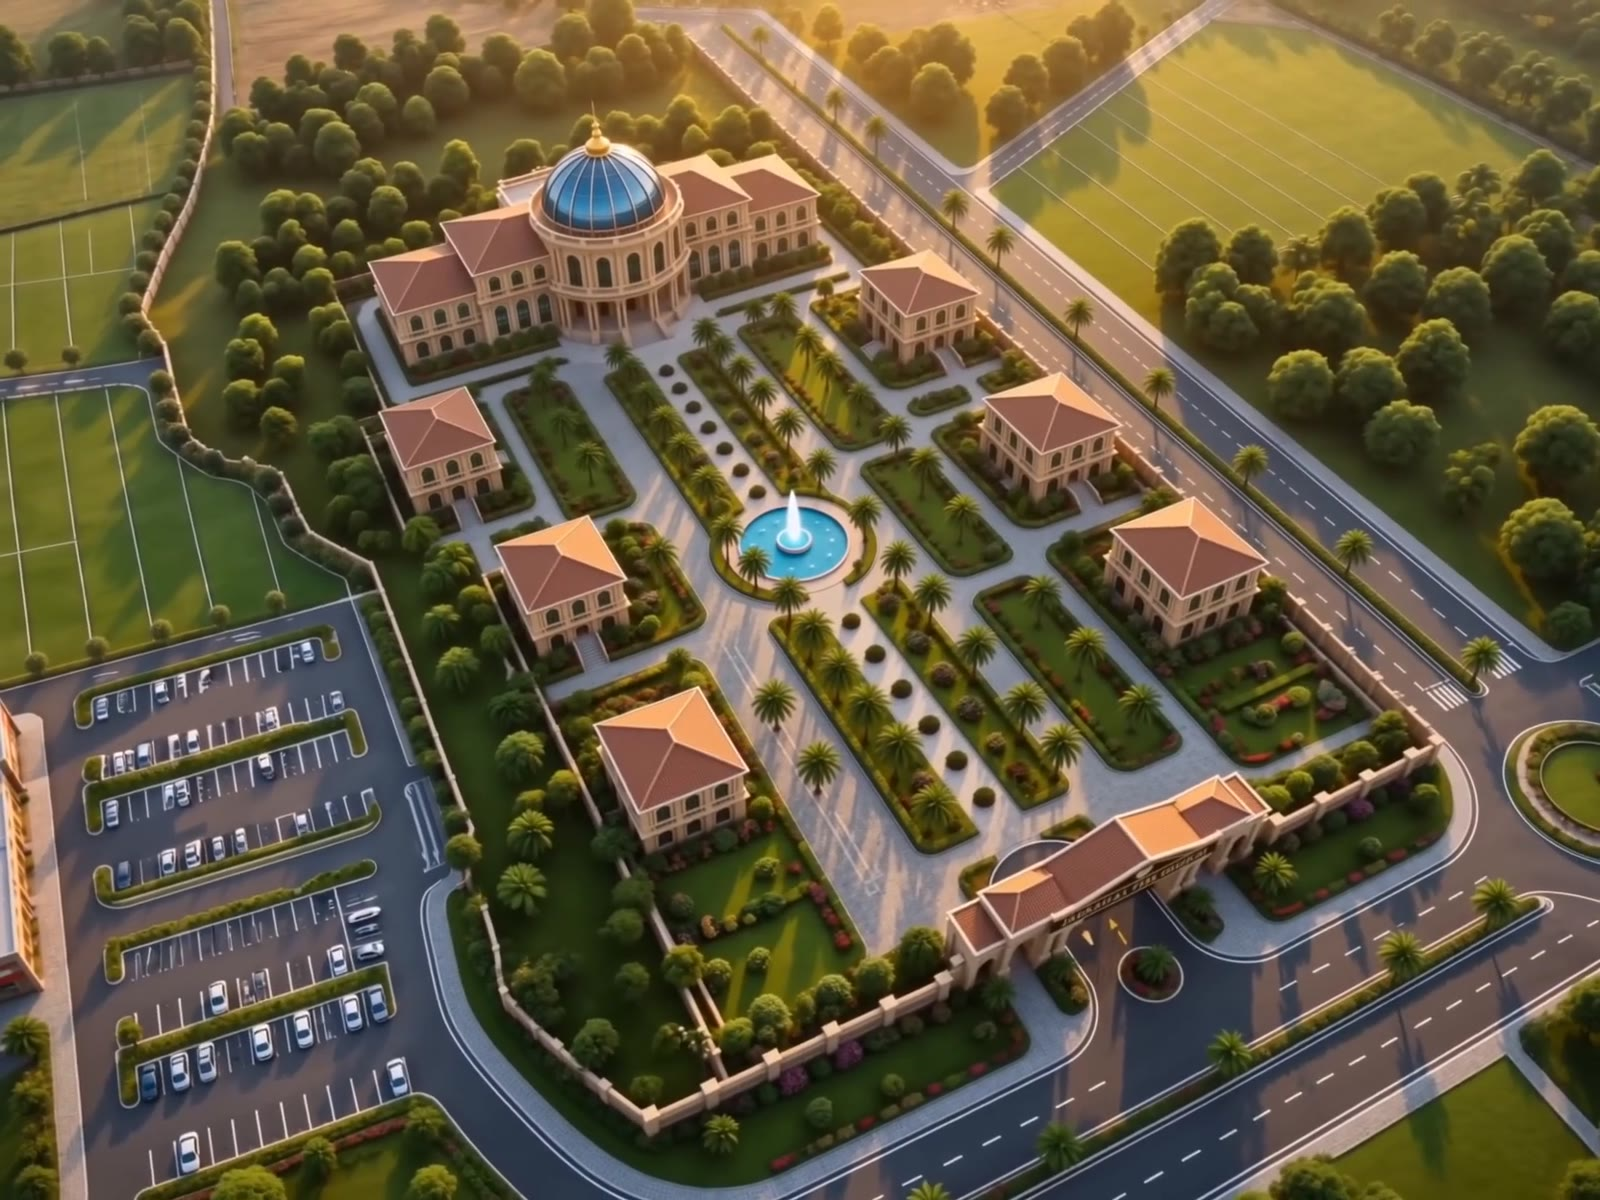
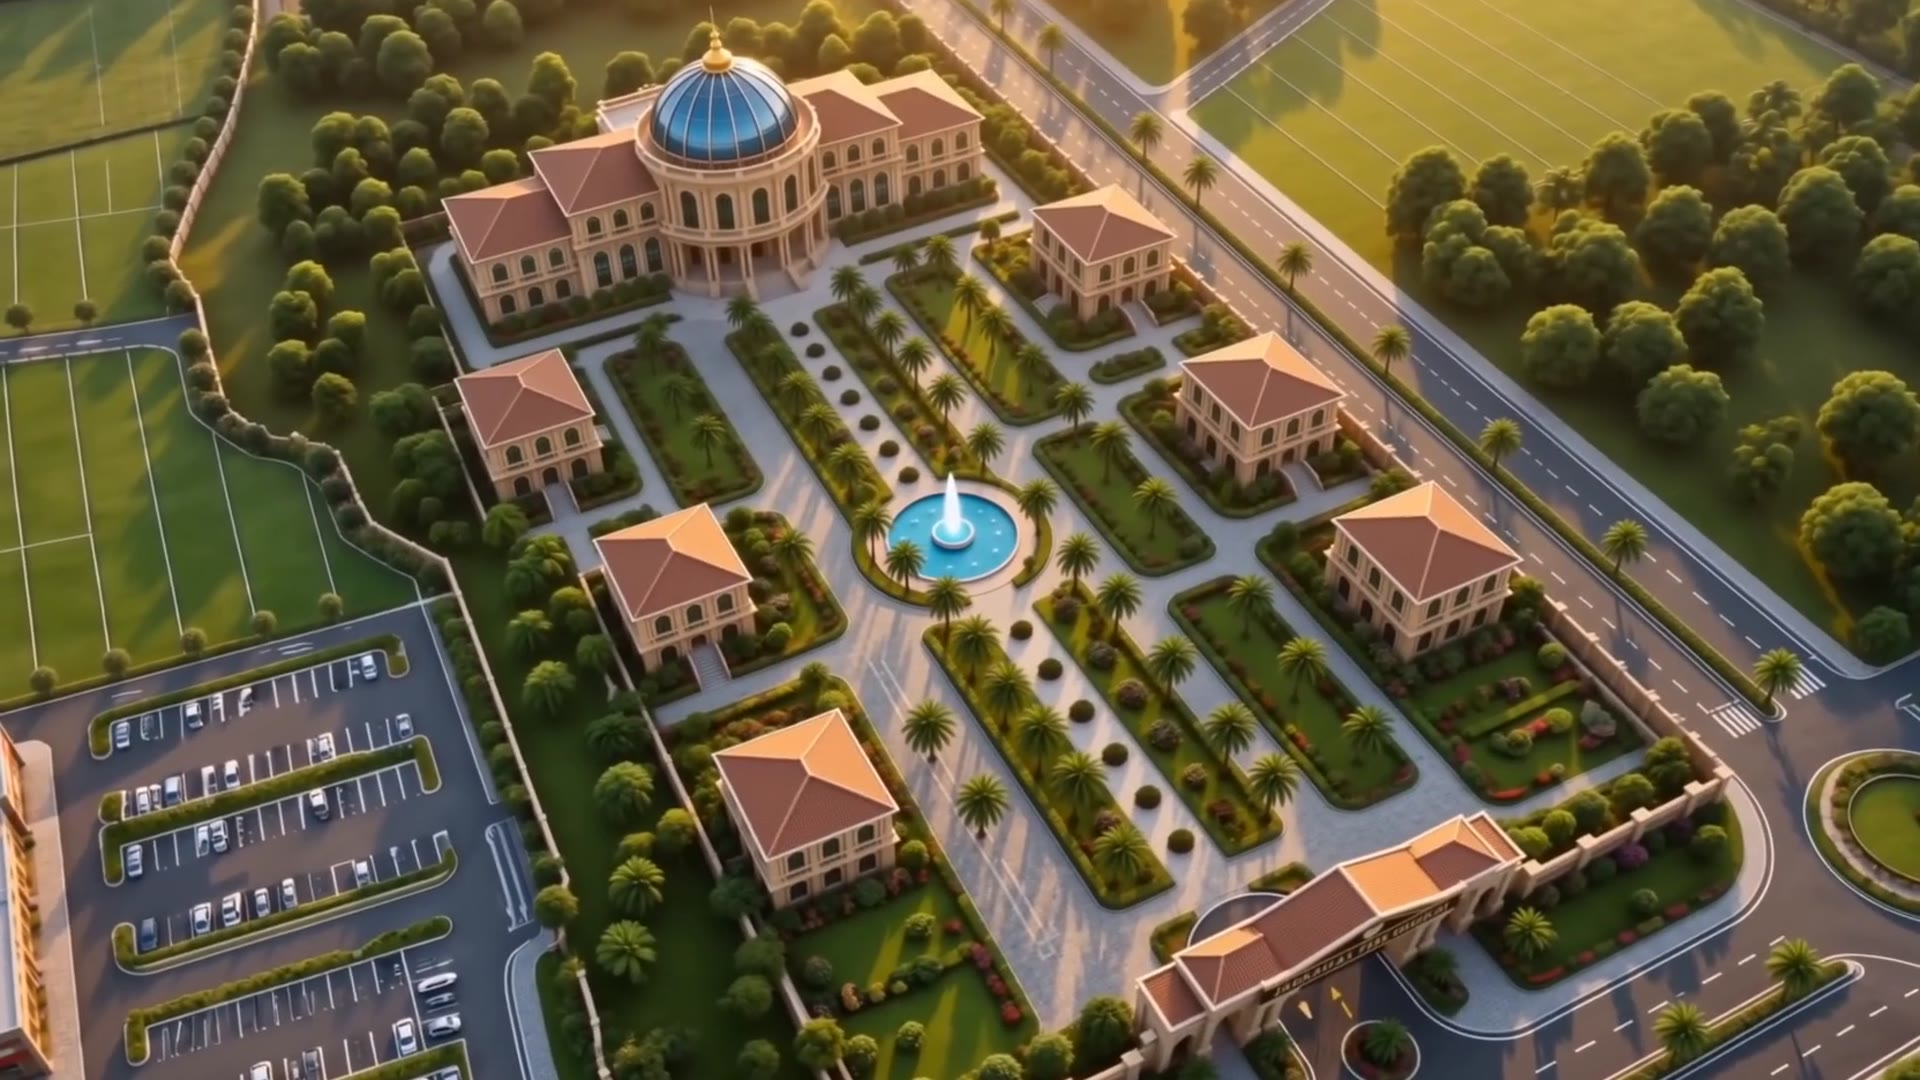
Re-crop the drone footage to 16:9 so the hero fills the screen edge-to-edge
The 4:3 source meant satisfying both "full screen, no empty bars" and
"nothing cropped" at once required a blurred-backdrop compromise, which in
practice still read as "not full screen" on real desktop monitors. Fix it
at the source instead: crop the raw footage itself (100px off the top,
212px off the bottom, out of 1248px) down to a native 16:9 that still keeps
the dome and gate fully in frame with margin, verified against a simulated
worst-case 21:9 ultrawide crop. Re-encoded both the hero clip and the full
showcase clip against this new crop, and simplified the hero back down to
a single plain object-cover video now that the aspect ratio actually fits
real screens, removing the blurred second video layer entirely.

Verified: negligible crop at standard 16:9 (6%), dome still fully visible
even in the ultrawide worst case, and mobile portrait only crops the sides
(top/bottom, where the dome and gate sit, stay untouched).

diff --git a/src/components/sections/hero.tsx b/src/components/sections/hero.tsx
@@ -13,18 +13,8 @@ export function Hero() {
           muted
           loop
           playsInline
-          aria-hidden="true"
-          className="absolute inset-0 h-full w-full scale-110 object-cover opacity-60 blur-2xl"
-        >
-          <source src="/videos/jk-hero-flythrough.mp4" type="video/mp4" />
-        </video>
-        <video
-          autoPlay
-          muted
-          loop
-          playsInline
           poster="/images/jk-hero-flythrough-poster.jpg"
-          className="absolute inset-0 h-full w-full object-contain"
+          className="absolute inset-0 h-full w-full object-cover"
         >
           <source src="/videos/jk-hero-flythrough.mp4" type="video/mp4" />
         </video>